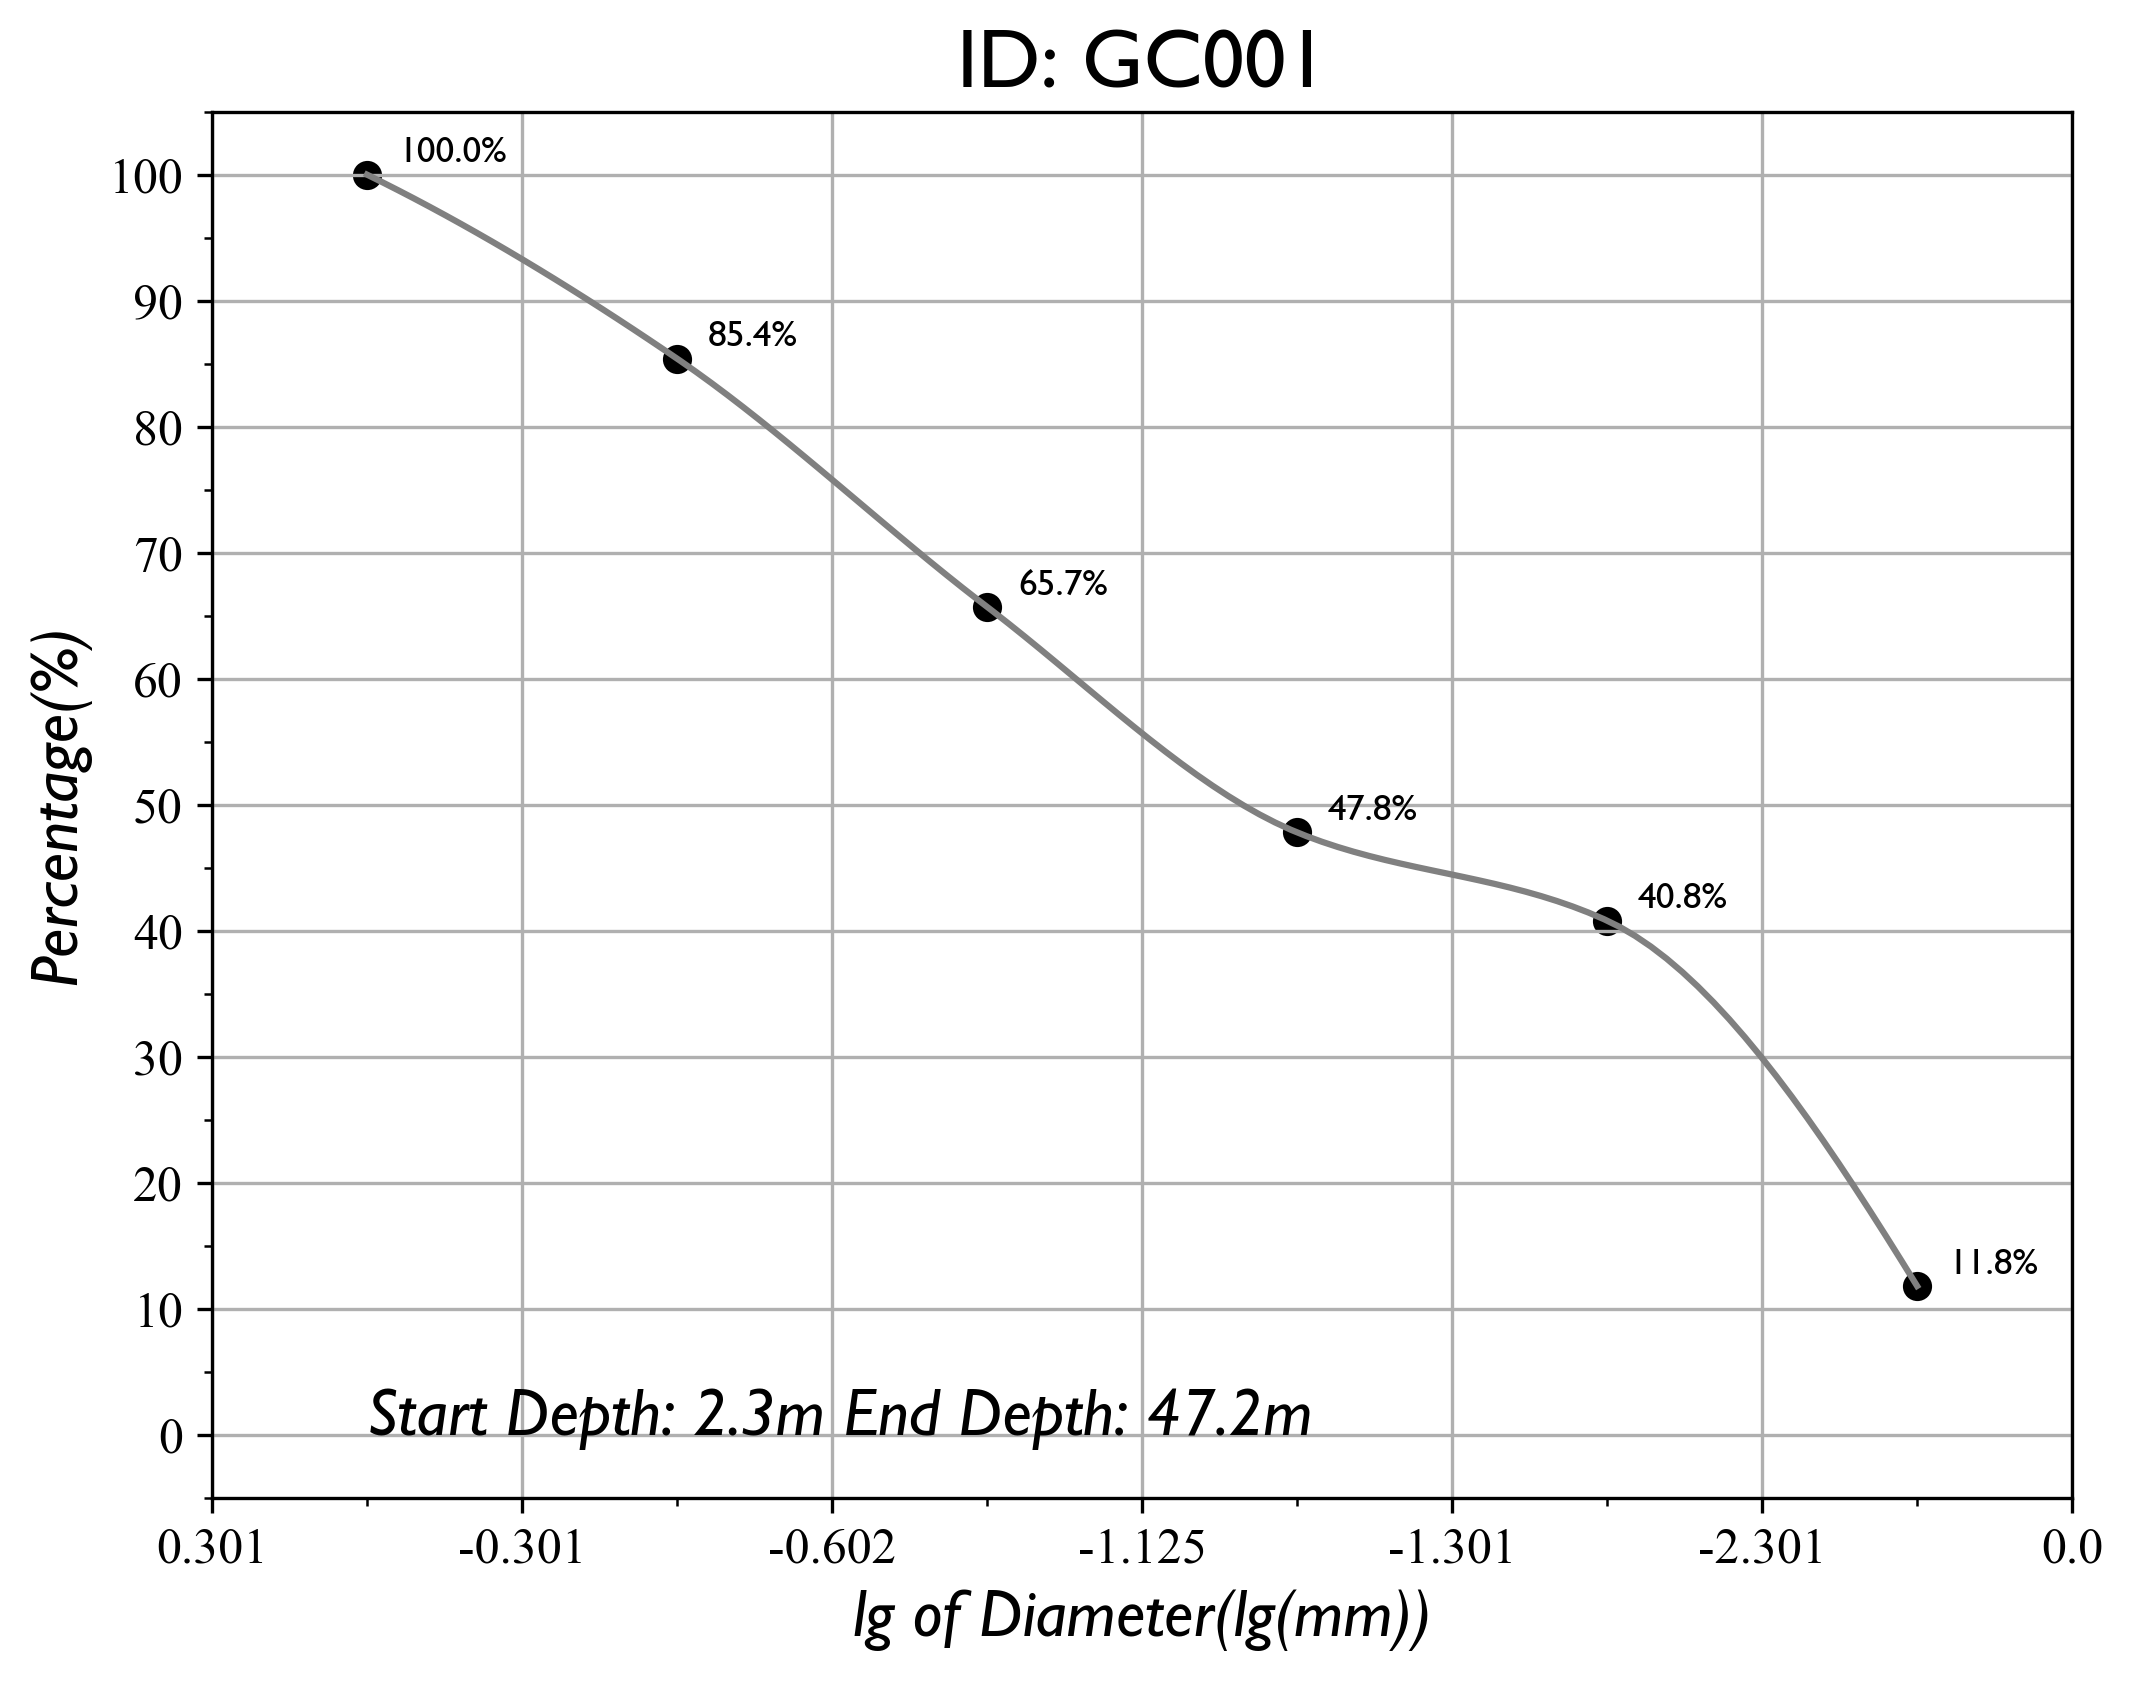
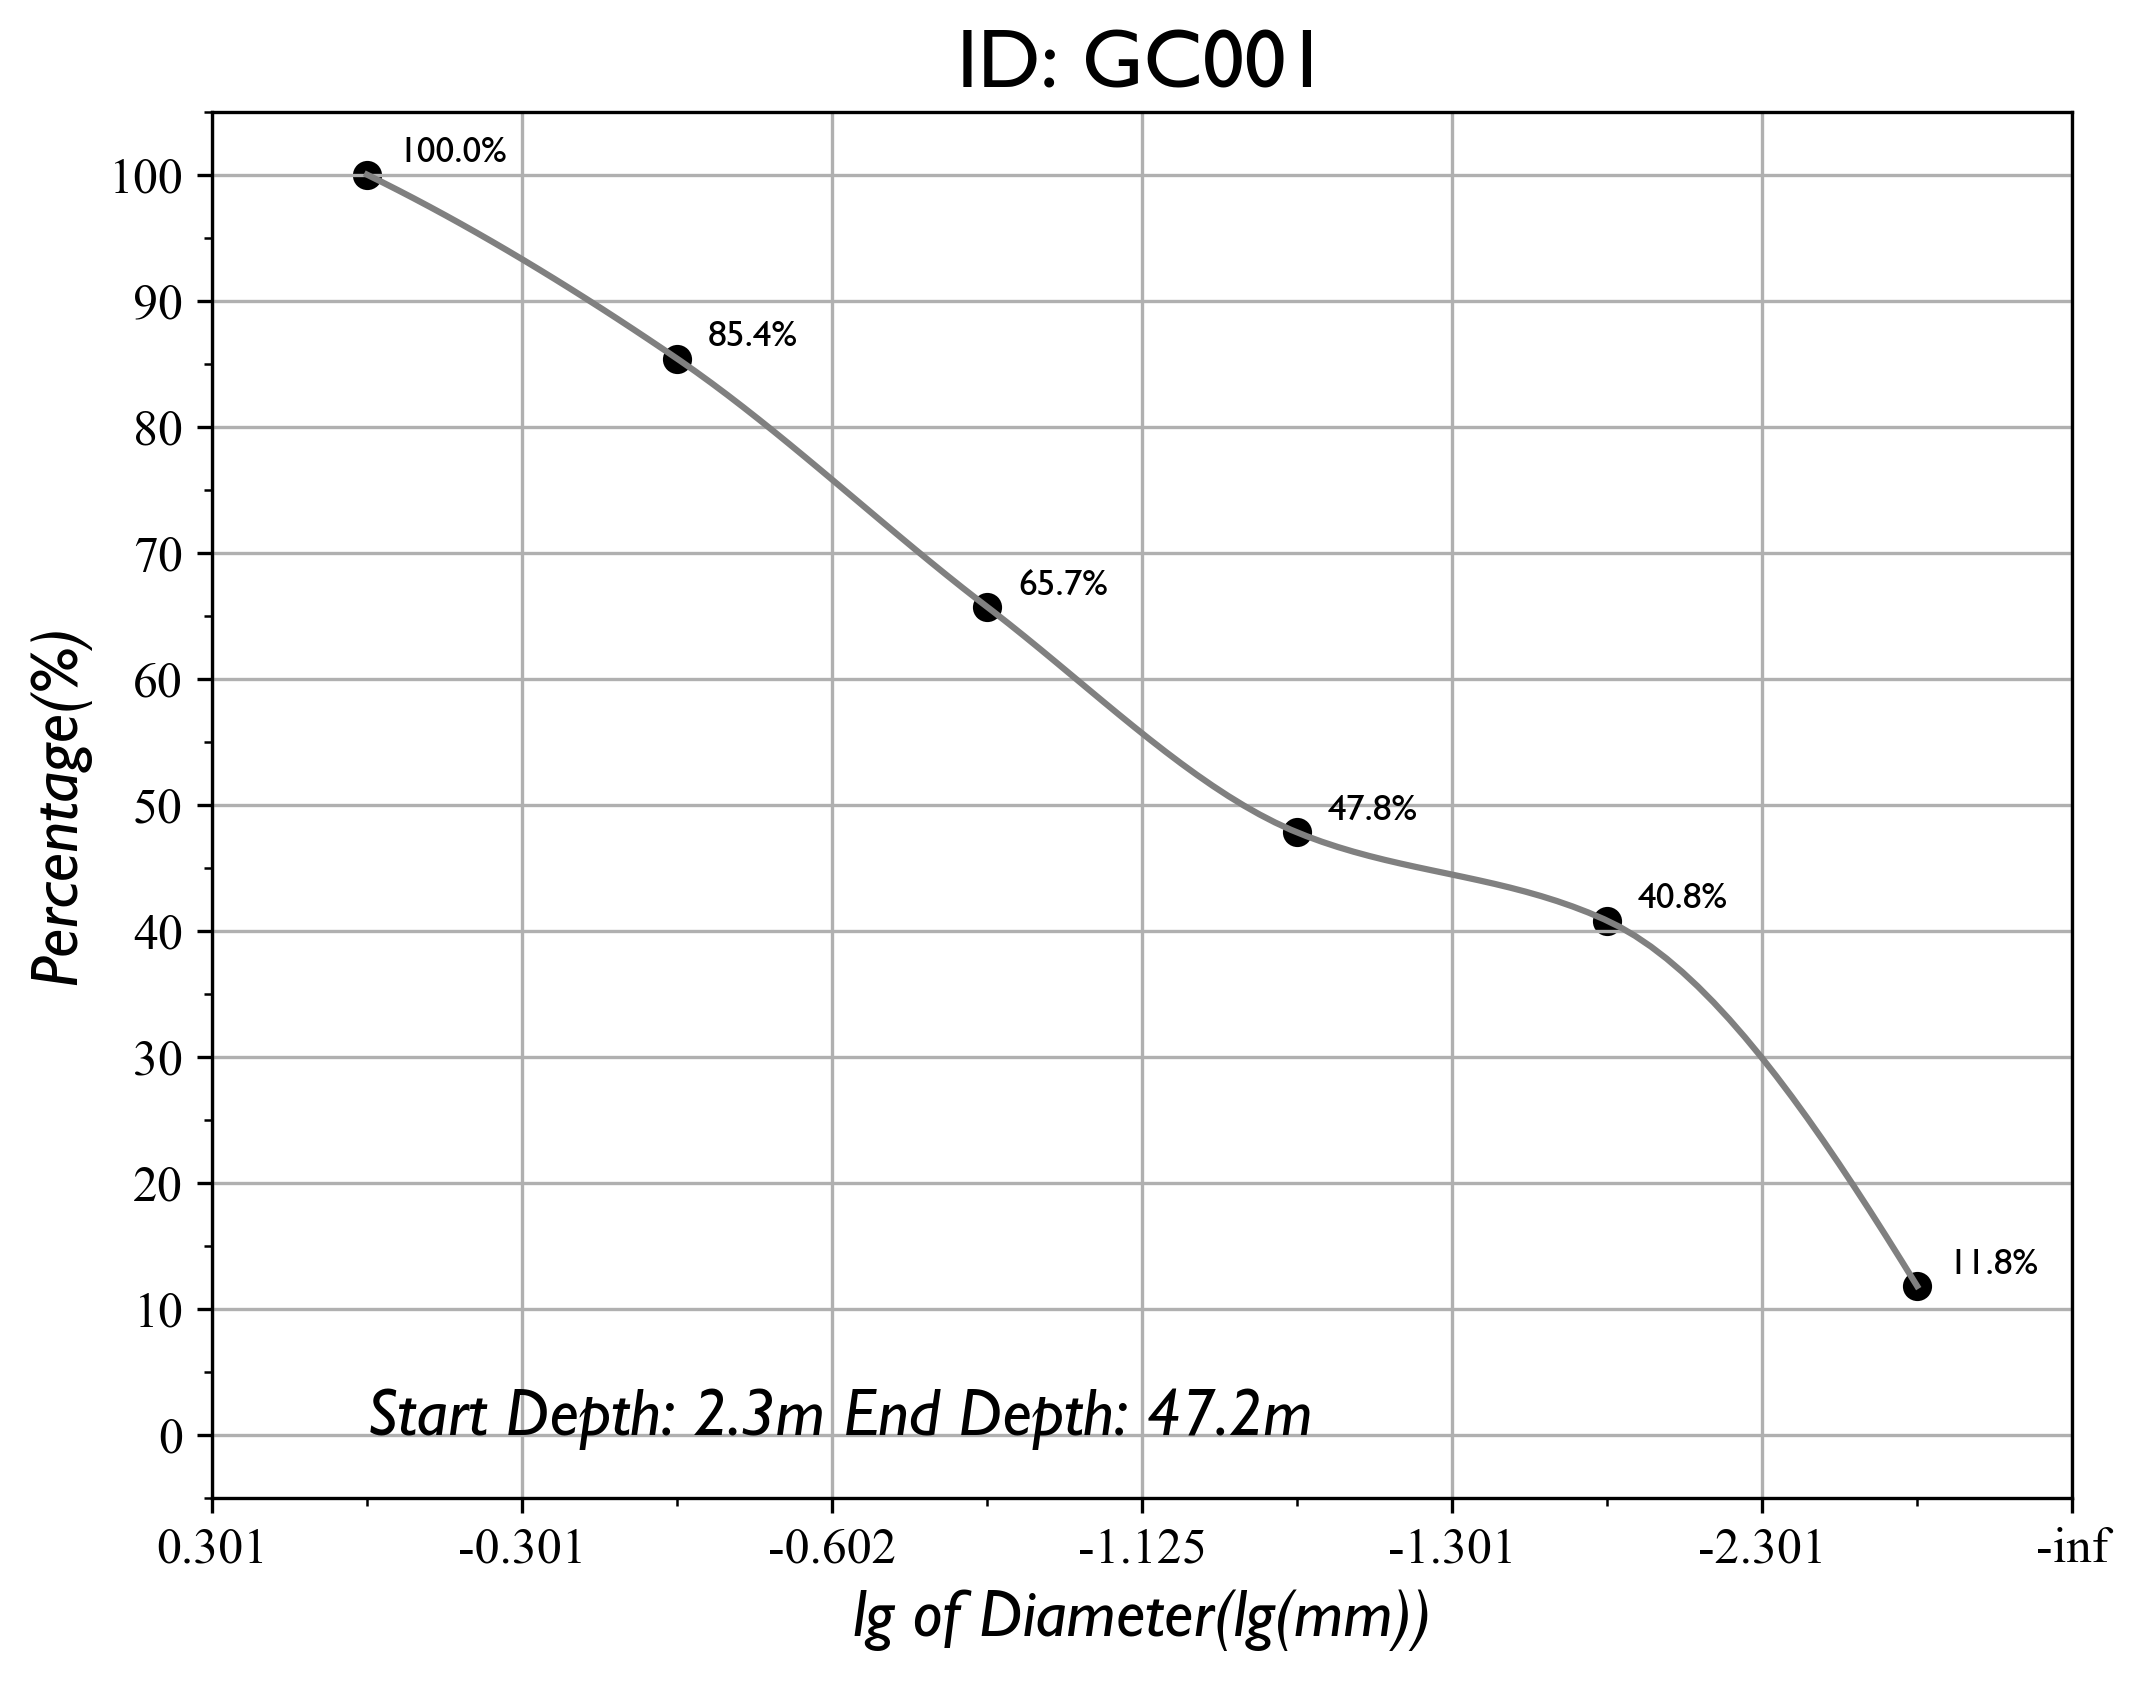
this time is ok

diff --git a/Object/o_data.py b/Object/o_data.py
@@ -445,7 +445,7 @@ class data:
         y_alias=np.copy(self.list_diameter_percentage_cumulative)
         
         #diameter list in lg form
-        self.list_diameter_lg=[np.round(np.log10(item),3) for item in self.list_diameter[:-1]]+[0.00]
+        self.list_diameter_lg=[np.round(np.log10(item),3) for item in self.list_diameter]
         
         valid_x=x_alias
         valid_y=[int(np.round(item*10))/10 for item in y_alias]
